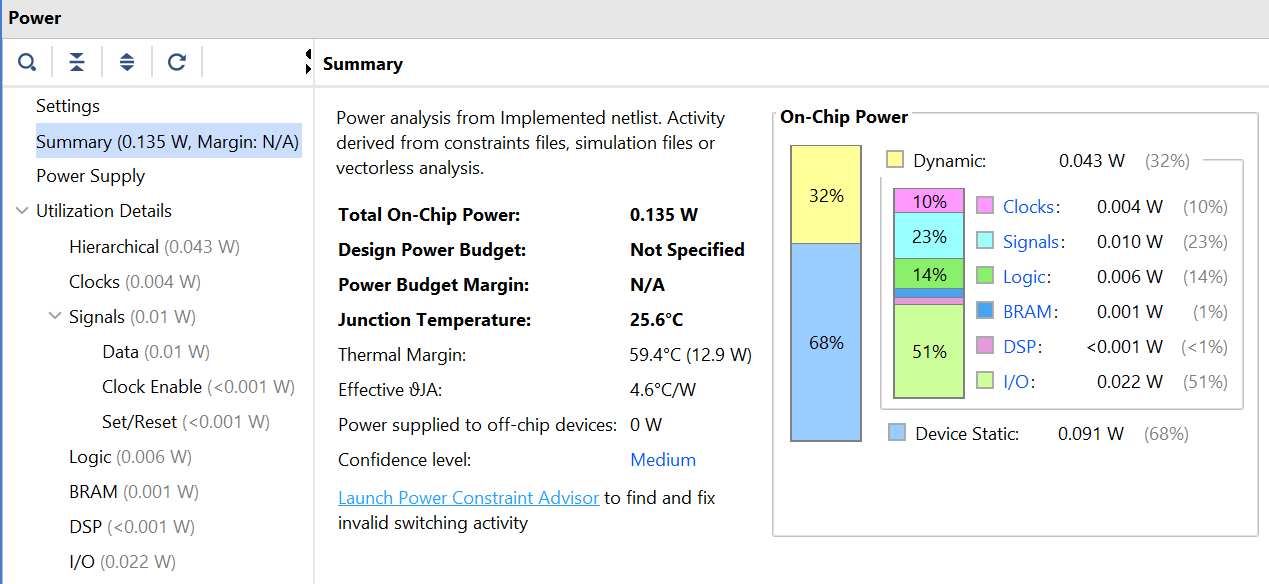
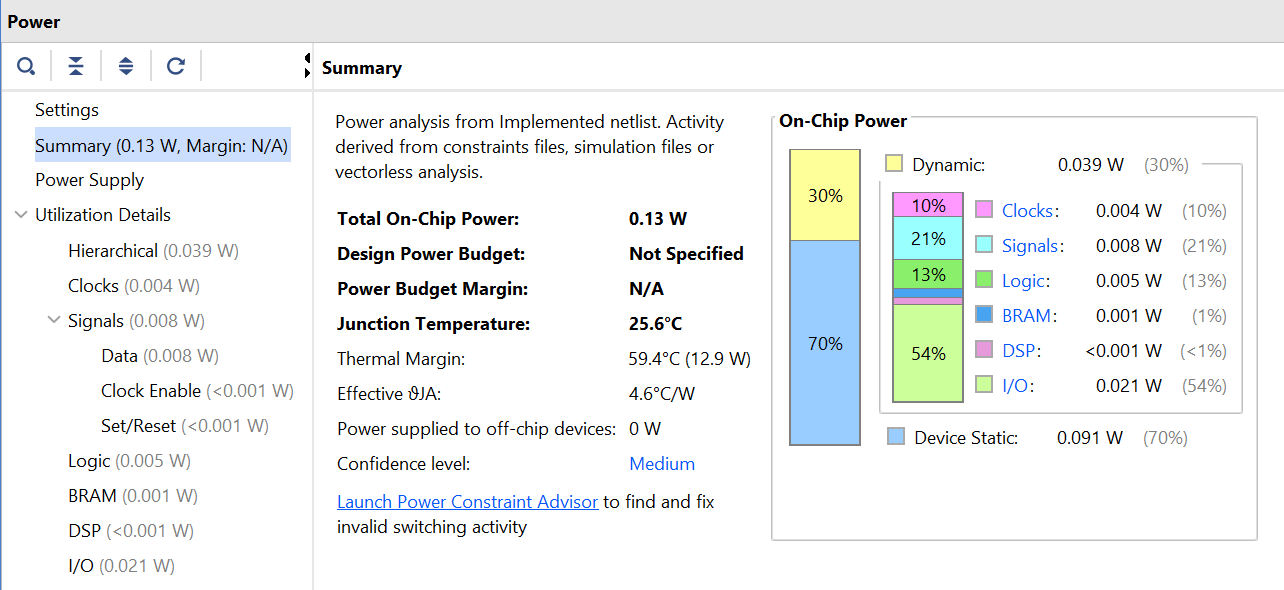
Added programs like gcd and exp mod

diff --git a/README.md b/README.md
@@ -128,7 +128,7 @@ See [BTB Tests](tb/README.md#test-categories) for more details
 
 | Resource        | Utilization |
 | --------------- | ----------- |
-| Slice LUTs      | 2108        |
+| Slice LUTs      | 2063        |
 | Slice Registers | 780         |
 | BRAM            | 1           |
 | DSP Blocks      | 4           |
@@ -139,9 +139,9 @@ See [BTB Tests](tb/README.md#test-categories) for more details
 
 ### ⚡ Power Consumption
 
-* **Dynamic Power:** 0.043 W (due to switching activity during operation)
+* **Dynamic Power:** 0.039 W (due to switching activity during operation)
 * **Static Power:** 0.091 W (leakage and idle power)
-* **Total Estimated Power:** 0.134 W
+* **Total Estimated Power:** 0.13 W
 
 💡 *These numbers come from Vivado’s post-implementation power report at 70 MHz.*
 
